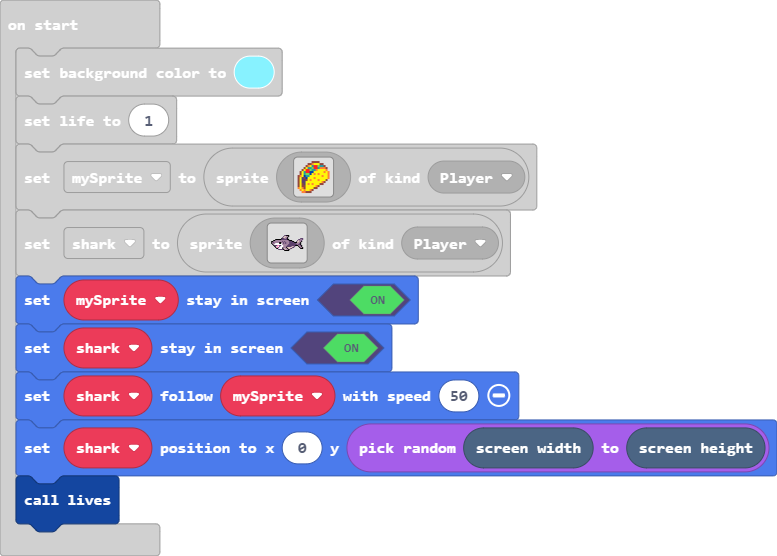
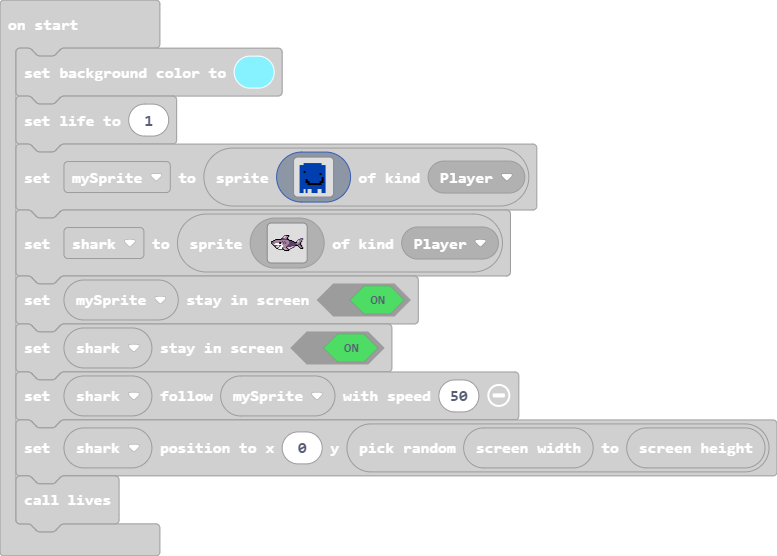
Update main.blocks, main.ts

Changed region(s): [[0.0, 0.4892, 1.0, 0.9784], [0.3398, 0.2752, 0.4633, 0.3669]]

diff --git a/main.ts b/main.ts
@@ -19,22 +19,22 @@ let mySprite: Sprite = null
 scene.setBackgroundColor(9)
 info.setLife(1)
 mySprite = sprites.create(img`
-    . . . . . . . e e e e . . . . . 
-    . . . . . e e 4 5 5 5 e e . . . 
-    . . . . e 4 5 6 2 2 7 6 6 e . . 
-    . . . e 5 6 6 7 2 2 6 4 4 4 e . 
-    . . e 5 2 2 7 6 6 4 5 5 5 5 4 . 
-    . e 5 6 2 2 8 8 5 5 5 5 5 4 5 4 
-    . e 5 6 7 7 8 5 4 5 4 5 5 5 5 4 
-    e 4 5 8 6 6 5 5 5 5 5 5 4 5 5 4 
-    e 5 c e 8 5 5 5 4 5 5 5 5 5 5 4 
-    e 5 c c e 5 4 5 5 5 4 5 5 5 e . 
-    e 5 c c 5 5 5 5 5 5 5 5 4 e . . 
-    e 5 e c 5 4 5 4 5 5 5 e e . . . 
-    e 5 e e 5 5 5 5 5 4 e . . . . . 
-    4 5 4 e 5 5 5 5 e e . . . . . . 
-    . 4 5 4 5 5 4 e . . . . . . . . 
-    . . 4 4 e e e . . . . . . . . . 
+    . . . . . . . . . . . . . . . . 
+    . . . 8 8 8 8 8 8 8 8 8 . . . . 
+    . 8 8 8 8 8 8 8 8 8 8 8 8 8 . . 
+    . 8 8 8 8 8 8 8 8 8 8 8 8 8 . . 
+    . 8 8 8 8 8 8 8 8 8 8 8 8 8 . . 
+    . 8 8 f 8 8 8 8 8 8 8 8 8 8 . . 
+    . 8 8 8 8 8 8 8 8 8 8 f 8 8 . . 
+    . 8 8 8 8 8 8 8 8 8 8 8 8 8 . . 
+    . 8 8 8 8 8 8 8 8 8 8 8 f 8 . . 
+    . 8 8 8 f 8 8 8 8 8 8 8 f 8 . . 
+    . 8 8 8 f f 8 8 8 8 8 f f 8 . . 
+    . 8 8 8 8 f f f f f f f 8 8 . . 
+    . 8 8 8 8 8 8 8 8 8 8 8 8 8 . . 
+    . 8 8 8 8 8 8 8 8 8 8 8 8 8 . . 
+    . 8 8 . 8 . . 8 8 8 . . 8 8 . . 
+    . 8 8 . 8 . . 8 8 8 . . 8 8 . . 
     `, SpriteKind.Player)
 let shark = sprites.create(img`
     .............ccfff..............
